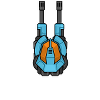
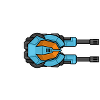
bullets with graphics and correct positioning

Changed region(s): [[0.24, 0.0, 0.99, 0.78]]

diff --git a/js/src/Tokens/Defender/Tower.js b/js/src/Tokens/Defender/Tower.js
@@ -14,6 +14,11 @@ Tower.prototype = {
         this.lastShot = 0;
         this.tokenType = config.tokenType;
 
+        this.circle = null;
+        this.text1 = null;
+        this.text2 = null;
+        this.text3 = null;
+
         this.on('TOWER_NEW_TARGET', function (event) {
 
             Logger.info("Tower: Processing TOWER_NEW_TARGET Event for element with id = "+event.elementId);
@@ -44,7 +49,7 @@ Tower.prototype = {
                 y: this.target.getY() - this.getY()
             };
             var angleTo = Math.atan2(delta.y,delta.x);
-            var angle = ~~Math.Util.radToDeg(angleTo)+90;
+            var angle = ~~Math.Util.radToDeg(angleTo);
 
             if(this.rotationAngle !== angle){
                 this.rotation(angle);
@@ -53,22 +58,28 @@ Tower.prototype = {
 
             if(this.lastShot + this.timeToReload < data.time ){
 
-                var circle = new Konva.Circle({
-                    x: this.getX(),
-                    y: this.getY(),
-                    radius: 2,
-                    fill: 'red',
-                    stroke: 'orange',
-                    strokeWidth: 1
+                var distance = 40;
+                var angleInRad = Math.Util.degToRad(angle);
+                var gunfireDetalX = Math.cos(angleInRad) * distance;
+                var gunfireDetalY = Math.sin(angleInRad) * distance;
+
+
+                var bullet = new Konva.Image({
+                    x: this.getX()+gunfireDetalX,
+                    y: this.getY()+gunfireDetalY,
+                    image:Konva.Assets.bulletBullet,
+                    scale:{x:0.3,y:0.3}
                 });
-                this.getLayer().add(circle);
+                bullet.rotation(angle);
+
+                this.getLayer().add(bullet);
                 this.tween = new Konva.Tween({
-                    node: circle,
-                    duration: 0.2,
+                    node: bullet,
+                    duration: 0.3,
                     x: this.target.getX(),
                     y: this.target.getY(),
                     onFinish: function() {
-                        circle.destroy();
+                        bullet.destroy();
                     }
                 });
 

diff --git a/js/config.js b/js/config.js
@@ -6,6 +6,8 @@ var config = {
         {src: 'img/attacker/RUNNER_DESTROYED.png', id: 'RUNNER_CORPSE'},
         {src: 'img/tower/TOWER_BASE.png', id: 'towerBase'},
         {src: 'img/tower/PLASMA.png', id: 'towerFlamer'},
+        {src: 'img/tower/Fire.png', id: 'bulletFire'},
+        {src: 'img/tower/Bullet.png', id: 'bulletBullet'},
         {src: 'img/tower/GATTLING.png', id: 'towerGattling'},
         {src: 'img/dungeons/SNAIL.jpg', id: 'SNAIL'},
         {src: 'img/dungeons/LET_ME_OUT.jpg', id: 'LET_ME_OUT'}

diff --git a/js/src/Tokens/Attacker/Unit.js b/js/src/Tokens/Attacker/Unit.js
@@ -16,10 +16,6 @@ Unit.prototype = {
 
         this.walkoffset = Math.floor( ( Math.random() * 41 )) - 20;
 
-
-
-
-
         this.on('MOVETO', function(event){
 
             Logger.info("Unit: Processing MOVETO Event for element with id = "+event.elementId);
